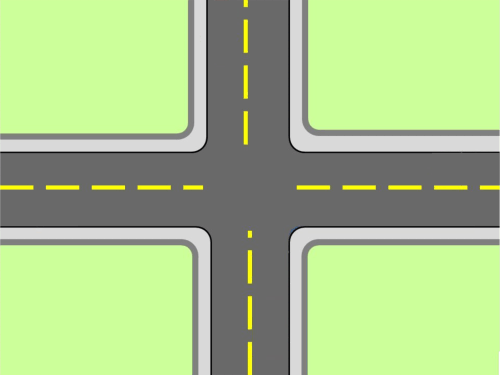
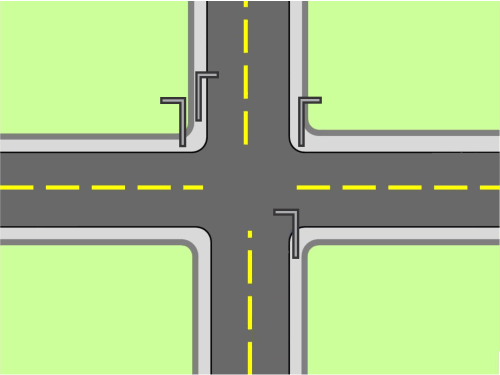
Exer2 ok

diff --git a/src/Lista1/Exer2/Exer2.java b/src/Lista1/Exer2/Exer2.java
@@ -46,17 +46,17 @@ public class Exer2 extends javax.swing.JFrame {
         jPanel1.setLayout(new org.netbeans.lib.awtextra.AbsoluteLayout());
 
         Semaforo1.setIcon(new javax.swing.ImageIcon(getClass().getResource("/Lista1/Exer2/vermelho.png"))); // NOI18N
-        jPanel1.add(Semaforo1, new org.netbeans.lib.awtextra.AbsoluteConstraints(220, 120, -1, -1));
+        jPanel1.add(Semaforo1, new org.netbeans.lib.awtextra.AbsoluteConstraints(210, 60, -1, -1));
 
         Semaforo2.setIcon(new javax.swing.ImageIcon(getClass().getResource("/Lista1/Exer2/vermelho.png"))); // NOI18N
-        jPanel1.add(Semaforo2, new org.netbeans.lib.awtextra.AbsoluteConstraints(300, 150, 30, 40));
+        jPanel1.add(Semaforo2, new org.netbeans.lib.awtextra.AbsoluteConstraints(310, 90, 30, 80));
 
         Semaforo3.setIcon(new javax.swing.ImageIcon(getClass().getResource("/Lista1/Exer2/vermelho.png"))); // NOI18N
         Semaforo3.setToolTipText("");
-        jPanel1.add(Semaforo3, new org.netbeans.lib.awtextra.AbsoluteConstraints(270, 230, 20, 40));
+        jPanel1.add(Semaforo3, new org.netbeans.lib.awtextra.AbsoluteConstraints(260, 200, -1, -1));
 
         Semaforo4.setIcon(new javax.swing.ImageIcon(getClass().getResource("/Lista1/Exer2/vermelho.png"))); // NOI18N
-        jPanel1.add(Semaforo4, new org.netbeans.lib.awtextra.AbsoluteConstraints(190, 180, 30, 50));
+        jPanel1.add(Semaforo4, new org.netbeans.lib.awtextra.AbsoluteConstraints(150, 90, 30, -1));
 
         Fundo.setIcon(new javax.swing.ImageIcon(getClass().getResource("/Lista1/Exer2/fundo.png"))); // NOI18N
         Fundo.setText("'");
